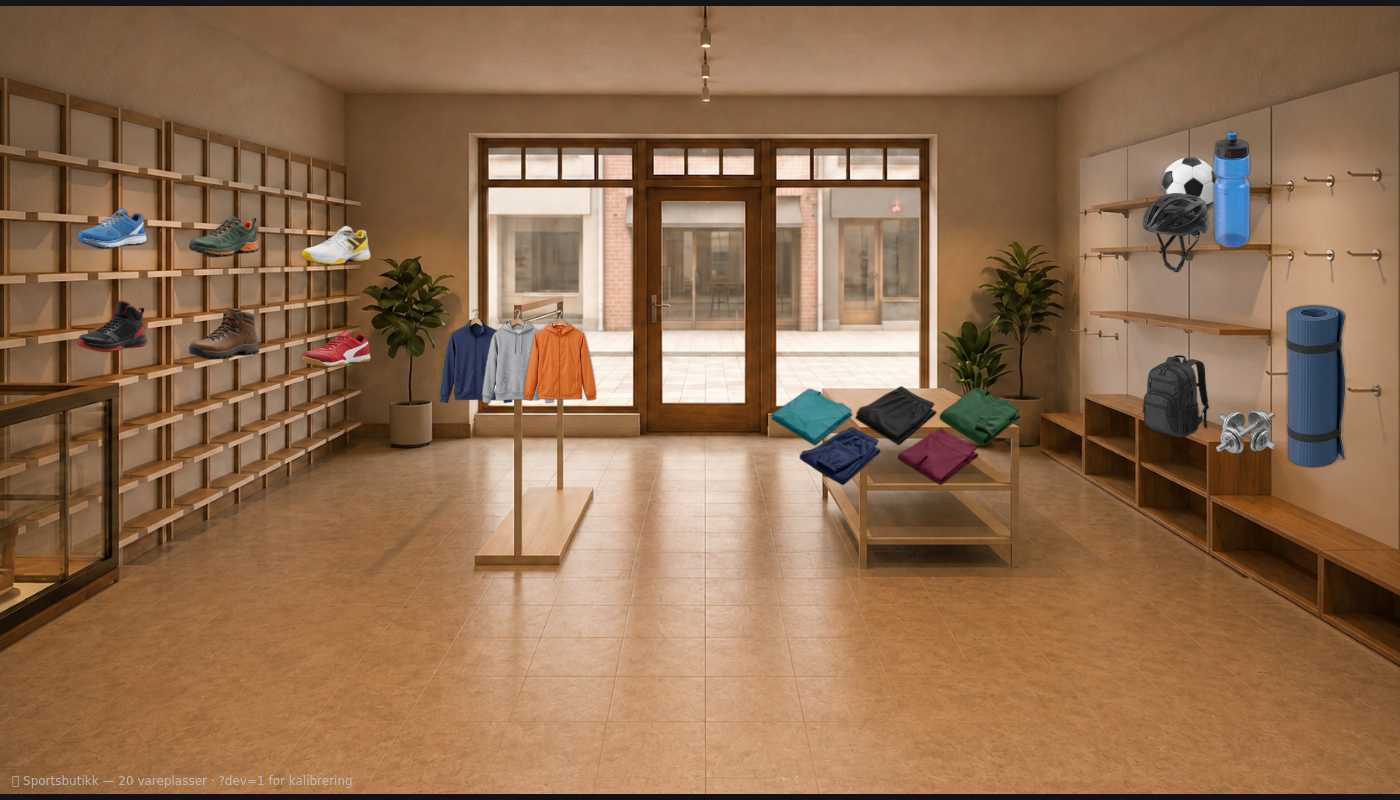
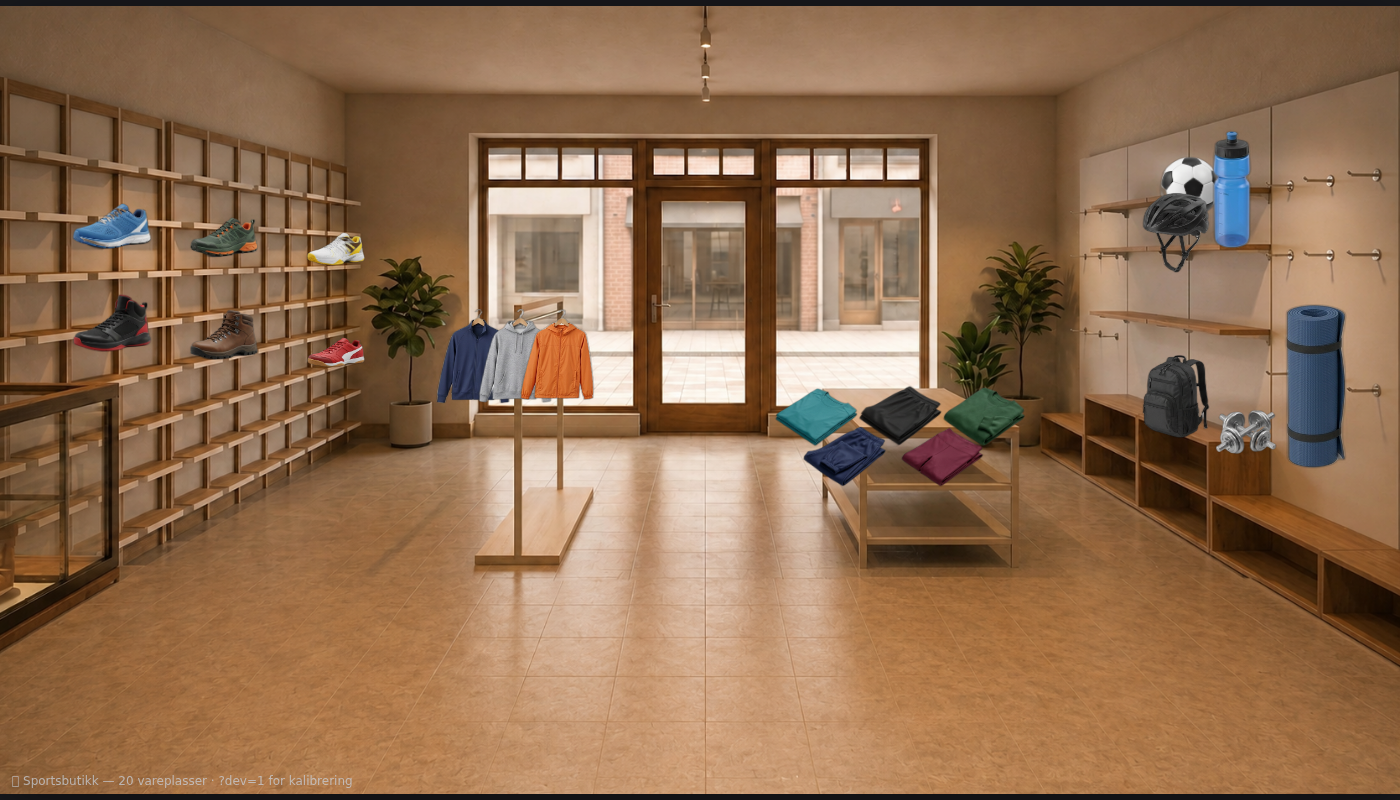
Sport M7: fiks sko-perspektiv (nær=stor) + skew på brett/heng-klær
- Sko-perspektiv (Espens funn): skalaen var uniform → fjerne sko for store.
  Skovegg venstre=nær(stor)/høyre=fjern(liten): 6 sko fikk skala-gradient
  0.058→0.050→0.043, og skovegg-linjene fikk snudd gradient.
- Skew: nytt skewX/skewY på Vareplass + plassTransform + tracer (± knapper, dump).
  Brett skewX:-8 (ligger på skrått bord), heng skewX:-4 (drapé). Espen finjusterer live.
- tsc -b + vite build grønne. Se spor-c.md §11.

diff --git a/src/game/city/SportStillas.tsx b/src/game/city/SportStillas.tsx
@@ -39,14 +39,13 @@ const r1 = (n: number) => Math.round(n * 10) / 10
 const r3 = (n: number) => Math.round(n * 1000) / 1000
 
 // heng = topp-ankret (henger ned fra rail-punktet), resten = bunn-ankret.
-function plassTransform(vp: { type: PlassType; rot?: number }) {
+// skewX/skewY gir flate klær-sprites perspektiv (matcher bord/stativ-vinkel).
+function plassTransform(vp: { type: PlassType; rot?: number; skewX?: number; skewY?: number }) {
   const bunn = vp.type !== 'heng'
   const anchor = bunn ? 'translate(-50%, -100%)' : 'translate(-50%, -6%)'
-  const rot = vp.rot ?? 0
-  return {
-    transform: `${anchor}${rot ? ` rotate(${rot}deg)` : ''}`,
-    transformOrigin: bunn ? '50% 100%' : '50% 50%',
-  }
+  const rot = vp.rot ?? 0, sx = vp.skewX ?? 0, sy = vp.skewY ?? 0
+  const t = `${anchor}${rot ? ` rotate(${rot}deg)` : ''}${sx ? ` skewX(${sx}deg)` : ''}${sy ? ` skewY(${sy}deg)` : ''}`
+  return { transform: t, transformOrigin: bunn ? '50% 100%' : '50% 50%' }
 }
 
 // ── Geometri: nærmeste punkt på en hyllelinje + interpolert skala ────────────
@@ -90,8 +89,12 @@ function saveDraft() {
 // ── Tekst-dump klart til innliming i SPORT (industryDefinition.ts) ───────────
 function vareplasserText(pts: Vareplass[]): string {
   const rows = pts.map(v => {
-    const extra = v.rot ? `, rot: ${v.rot}` : ''
-    return `    { id: '${v.id}', type: '${v.type}', x: ${v.x}, y: ${v.y}, scale: ${v.scale}${v.vare ? `, vare: '${v.vare}'` : ''}${extra} },`
+    const extra = [
+      v.rot ? `rot: ${v.rot}` : '',
+      v.skewX ? `skewX: ${v.skewX}` : '',
+      v.skewY ? `skewY: ${v.skewY}` : '',
+    ].filter(Boolean).join(', ')
+    return `    { id: '${v.id}', type: '${v.type}', x: ${v.x}, y: ${v.y}, scale: ${v.scale}${v.vare ? `, vare: '${v.vare}'` : ''}${extra ? ', ' + extra : ''} },`
   })
   return `vareplasser: [\n${rows.join('\n')}\n  ],`
 }
@@ -190,10 +193,10 @@ export default function SportStillas() {
     pts.push(vp); setSelId(vp.id); setSelLinje(null); saveDraft(); bump()
   }
 
-  function adjustVp(id: string, dScale: number, dRot: number) {
+  function adjustVp(id: string, dScale: number, key?: 'rot' | 'skewX' | 'skewY', dAngle?: number) {
     const vp = pts.find(p => p.id === id); if (!vp) return
     if (dScale) vp.scale = Math.max(0.01, r3(vp.scale + dScale))
-    if (dRot) vp.rot = r1((vp.rot ?? 0) + dRot)
+    if (key && dAngle) vp[key] = r1((vp[key] ?? 0) + dAngle)
     saveDraft(); bump()
   }
   function removeVp(id: string) {
@@ -332,16 +335,26 @@ export default function SportStillas() {
               {sel && (
                 <div style={{ background: '#1e293b', borderRadius: 6, padding: 8, marginBottom: 8 }}>
                   <div style={{ marginBottom: 4 }}><b>{sel.id}</b> · {sel.vare ?? '—'}</div>
-                  <div>x {sel.x} · y {sel.y} · s {sel.scale}{sel.rot ? ` · ${sel.rot}°` : ''}</div>
+                  <div>x {sel.x} · y {sel.y} · s {sel.scale}{sel.rot ? ` · rot ${sel.rot}°` : ''}{sel.skewX ? ` · sx ${sel.skewX}°` : ''}{sel.skewY ? ` · sy ${sel.skewY}°` : ''}</div>
                   <div style={{ display: 'flex', gap: 4, marginTop: 6 }}>
-                    <button onClick={() => adjustVp(sel.id, -0.005, 0)}>–</button>
+                    <button onClick={() => adjustVp(sel.id, -0.005)}>–</button>
                     <span style={{ flex: 1, textAlign: 'center' }}>skala</span>
-                    <button onClick={() => adjustVp(sel.id, +0.005, 0)}>+</button>
+                    <button onClick={() => adjustVp(sel.id, +0.005)}>+</button>
                   </div>
                   <div style={{ display: 'flex', gap: 4, marginTop: 4 }}>
-                    <button onClick={() => adjustVp(sel.id, 0, -1)}>↺</button>
+                    <button onClick={() => adjustVp(sel.id, 0, 'rot', -1)}>↺</button>
                     <span style={{ flex: 1, textAlign: 'center' }}>rot</span>
-                    <button onClick={() => adjustVp(sel.id, 0, +1)}>↻</button>
+                    <button onClick={() => adjustVp(sel.id, 0, 'rot', +1)}>↻</button>
+                  </div>
+                  <div style={{ display: 'flex', gap: 4, marginTop: 4 }}>
+                    <button onClick={() => adjustVp(sel.id, 0, 'skewX', -1)}>–</button>
+                    <span style={{ flex: 1, textAlign: 'center' }}>skewX</span>
+                    <button onClick={() => adjustVp(sel.id, 0, 'skewX', +1)}>+</button>
+                  </div>
+                  <div style={{ display: 'flex', gap: 4, marginTop: 4 }}>
+                    <button onClick={() => adjustVp(sel.id, 0, 'skewY', -1)}>–</button>
+                    <span style={{ flex: 1, textAlign: 'center' }}>skewY</span>
+                    <button onClick={() => adjustVp(sel.id, 0, 'skewY', +1)}>+</button>
                   </div>
                   <select value={sel.vare ?? ''} onChange={e => { sel.vare = e.target.value || undefined; saveDraft(); bump() }}
                     style={{ width: '100%', marginTop: 6 }}>

diff --git a/src/game/data/industryDefinition.ts b/src/game/data/industryDefinition.ts
@@ -122,6 +122,10 @@ export interface Vareplass {
   vare?: string
   /** Valgfri rotasjon i grader på det plasserte elementet. */
   rot?: number
+  /** Valgfri skjærtransform (grader) — gir flate sprites (brettede/hengende
+   *  klær) perspektiv så de matcher bordets/stativets vinkel. */
+  skewX?: number
+  skewY?: number
 }
 
 /** SPORT — HYLLELINJE (Espens designidé): en linje langs en hyllekant i
@@ -343,24 +347,25 @@ export const SPORT: IndustryDefinition = {
   // scale = brøk av scenebredden. Startgjett fra rutenett-avlesning —
   // finjustert via /dev/sport-render + skjermbilde-iterasjon (spor-c.md).
   vareplasser: [
-    // Sko-vegg (venstre) — sittende på hylle-ledd (2 rader × 3)
-    { id: 'sko-1', type: 'sko', x: 8,  y: 31, scale: 0.052, vare: 'lopesko' },
-    { id: 'sko-2', type: 'sko', x: 16, y: 32, scale: 0.052, vare: 'terrengsko' },
-    { id: 'sko-3', type: 'sko', x: 24, y: 33, scale: 0.052, vare: 'tennissko' },
-    { id: 'sko-4', type: 'sko', x: 8,  y: 44, scale: 0.052, vare: 'basketsko' },
-    { id: 'sko-5', type: 'sko', x: 16, y: 45, scale: 0.052, vare: 'fjellsko' },
-    { id: 'sko-6', type: 'sko', x: 24, y: 46, scale: 0.052, vare: 'innesko' },
+    // Sko-vegg (venstre) — venstre = NÆR kamera (større), høyre = FJERN (mindre).
+    // Perspektiv-korrekt skala-gradient (Espens funn: var uniform → fjern for stor).
+    { id: 'sko-1', type: 'sko', x: 8,  y: 31, scale: 0.058, vare: 'lopesko' },
+    { id: 'sko-2', type: 'sko', x: 16, y: 32, scale: 0.050, vare: 'terrengsko' },
+    { id: 'sko-3', type: 'sko', x: 24, y: 33, scale: 0.043, vare: 'tennissko' },
+    { id: 'sko-4', type: 'sko', x: 8,  y: 44, scale: 0.058, vare: 'basketsko' },
+    { id: 'sko-5', type: 'sko', x: 16, y: 45, scale: 0.050, vare: 'fjellsko' },
+    { id: 'sko-6', type: 'sko', x: 24, y: 46, scale: 0.043, vare: 'innesko' },
     // Klesstativ (midt-venstre) — hengende på rail
-    { id: 'heng-1', type: 'heng', x: 34, y: 39, scale: 0.055, vare: 'treningsjakke' },
-    { id: 'heng-2', type: 'heng', x: 37, y: 39, scale: 0.055, vare: 'hettegenser' },
-    { id: 'heng-3', type: 'heng', x: 40, y: 39, scale: 0.055, vare: 'vindjakke' },
+    { id: 'heng-1', type: 'heng', x: 34, y: 39, scale: 0.055, vare: 'treningsjakke', skewX: -4 },
+    { id: 'heng-2', type: 'heng', x: 37, y: 39, scale: 0.055, vare: 'hettegenser', skewX: -4 },
+    { id: 'heng-3', type: 'heng', x: 40, y: 39, scale: 0.055, vare: 'vindjakke', skewX: -4 },
     // Brettbord (midt-høyre) — bord større/lavere i disk-fri versjon; senket
     // bakre rad (3) + fremre rad (2) på bordplata (y-nivåene under)
-    { id: 'brett-1', type: 'brett', x: 58, y: 56, scale: 0.06, vare: 't-skjorte' },
-    { id: 'brett-2', type: 'brett', x: 64, y: 56, scale: 0.06, vare: 'treningsshorts' },
-    { id: 'brett-3', type: 'brett', x: 70, y: 56, scale: 0.06, vare: 'collegegenser' },
-    { id: 'brett-4', type: 'brett', x: 60, y: 61, scale: 0.06, vare: 'treningsbukse' },
-    { id: 'brett-5', type: 'brett', x: 67, y: 61, scale: 0.06, vare: 'tights' },
+    { id: 'brett-1', type: 'brett', x: 58, y: 56, scale: 0.06, vare: 't-skjorte', skewX: -8 },
+    { id: 'brett-2', type: 'brett', x: 64, y: 56, scale: 0.06, vare: 'treningsshorts', skewX: -8 },
+    { id: 'brett-3', type: 'brett', x: 70, y: 56, scale: 0.06, vare: 'collegegenser', skewX: -8 },
+    { id: 'brett-4', type: 'brett', x: 60, y: 61, scale: 0.06, vare: 'treningsbukse', skewX: -8 },
+    { id: 'brett-5', type: 'brett', x: 67, y: 61, scale: 0.06, vare: 'tights', skewX: -8 },
     // Utstyrsvegg (høyre) — øvre tynne hyller (ball/hjelm/flaske) + lav kubbe/
     // benk (nå mer synlig i disk-fri versjon: sekk/vekt/matte senket dit)
     { id: 'utstyr-1', type: 'utstyr', x: 85, y: 27, scale: 0.045, vare: 'fotball' },
@@ -375,8 +380,8 @@ export const SPORT: IndustryDefinition = {
   // Skala interpoleres langs linjen; vareplasser snapper hit (bunn-ankret).
   // Skovegg: front (høyre) lavere+større; utstyrsvegg: front (venstre) lavere+større.
   hyllelinjer: [
-    { id: 'sko-hylle-ovre', x1: 4, y1: 31, x2: 28, y2: 36, scale1: 0.045, scale2: 0.058 },
-    { id: 'sko-hylle-nedre', x1: 4, y1: 44, x2: 28, y2: 50, scale1: 0.048, scale2: 0.06 },
+    { id: 'sko-hylle-ovre', x1: 4, y1: 31, x2: 28, y2: 36, scale1: 0.06, scale2: 0.042 },
+    { id: 'sko-hylle-nedre', x1: 4, y1: 44, x2: 28, y2: 50, scale1: 0.062, scale2: 0.044 },
     { id: 'utstyr-hylle-2', x1: 80, y1: 33, x2: 91, y2: 30, scale1: 0.035, scale2: 0.03 },
     { id: 'utstyr-benk', x1: 82, y1: 53, x2: 99, y2: 62, scale1: 0.05, scale2: 0.048 },
   ],

diff --git a/docs/rapporter/spor-c.md b/docs/rapporter/spor-c.md
@@ -249,3 +249,29 @@ Alle 20 vareplasser treffer fortsatt. `tsc -b` + `vite build` grønne.
 **Endret:** `SportStillas.tsx` (full tracer-omskriving), `industryDefinition.ts`
 (Hyllelinje-type + `hyllelinjer`-felt + 4 linjer + 2 reseatede plasser),
 oppdaterte skjermbilder.
+
+---
+
+## 11. Oppfølging (2026-07-11): sko-perspektiv + skew på klær
+
+**1. Sko-perspektiv (Espens funn: størrelsen ØKTE lenger vekk — motsatt av virkeligheten).**
+Årsak: alle 6 skoene hadde UNIFORM skala (0.052), så de fjerne (mot sentrum) krympet
+ikke og så for store ut. Skoveggen er på venstre side: **venstre = nær kamera (stor),
+høyre = fjern (liten)**. Fikset:
+- De 6 skoene fikk perspektiv-korrekt skala-gradient: nær (x8) 0.058 → midt (x16)
+  0.050 → fjern (x24) 0.043.
+- De to skovegg-hyllelinjene fikk snudd skala-gradienten (scale1 nær STØRRE enn
+  scale2 fjern), så framtidige snap arver riktig størrelse.
+
+**2. Skew på brettede + hengende klær (Espens ønske).**
+- Ny `skewX?`/`skewY?` på `Vareplass` + i `plassTransform` (CSS `skewX/skewY`), og
+  ± skewX/skewY-knapper i traceren; «📋 Kopier» tar dem med.
+- **Brett** (folder på det skrå bordet): `skewX: -8` — topp lener mot bordets
+  recesjon opp-mot-høyre, så de flate spritene «ligger» på flaten i stedet for å stå
+  som kort.
+- **Heng** (på stativet): `skewX: -4` — subtilt drapé-fall.
+- Verdiene er øyemål; Espen kan finjustere live i `/dev/sport?dev=1` (± skewX/skewY).
+
+`tsc -b` + `vite build` grønne. **Endret:** `industryDefinition.ts` (skew-felt +
+sko-skala + skew-verdier + snudde skovegg-linjer), `SportStillas.tsx`
+(skew i transform/tracer/dump), oppdaterte skjermbilder.
